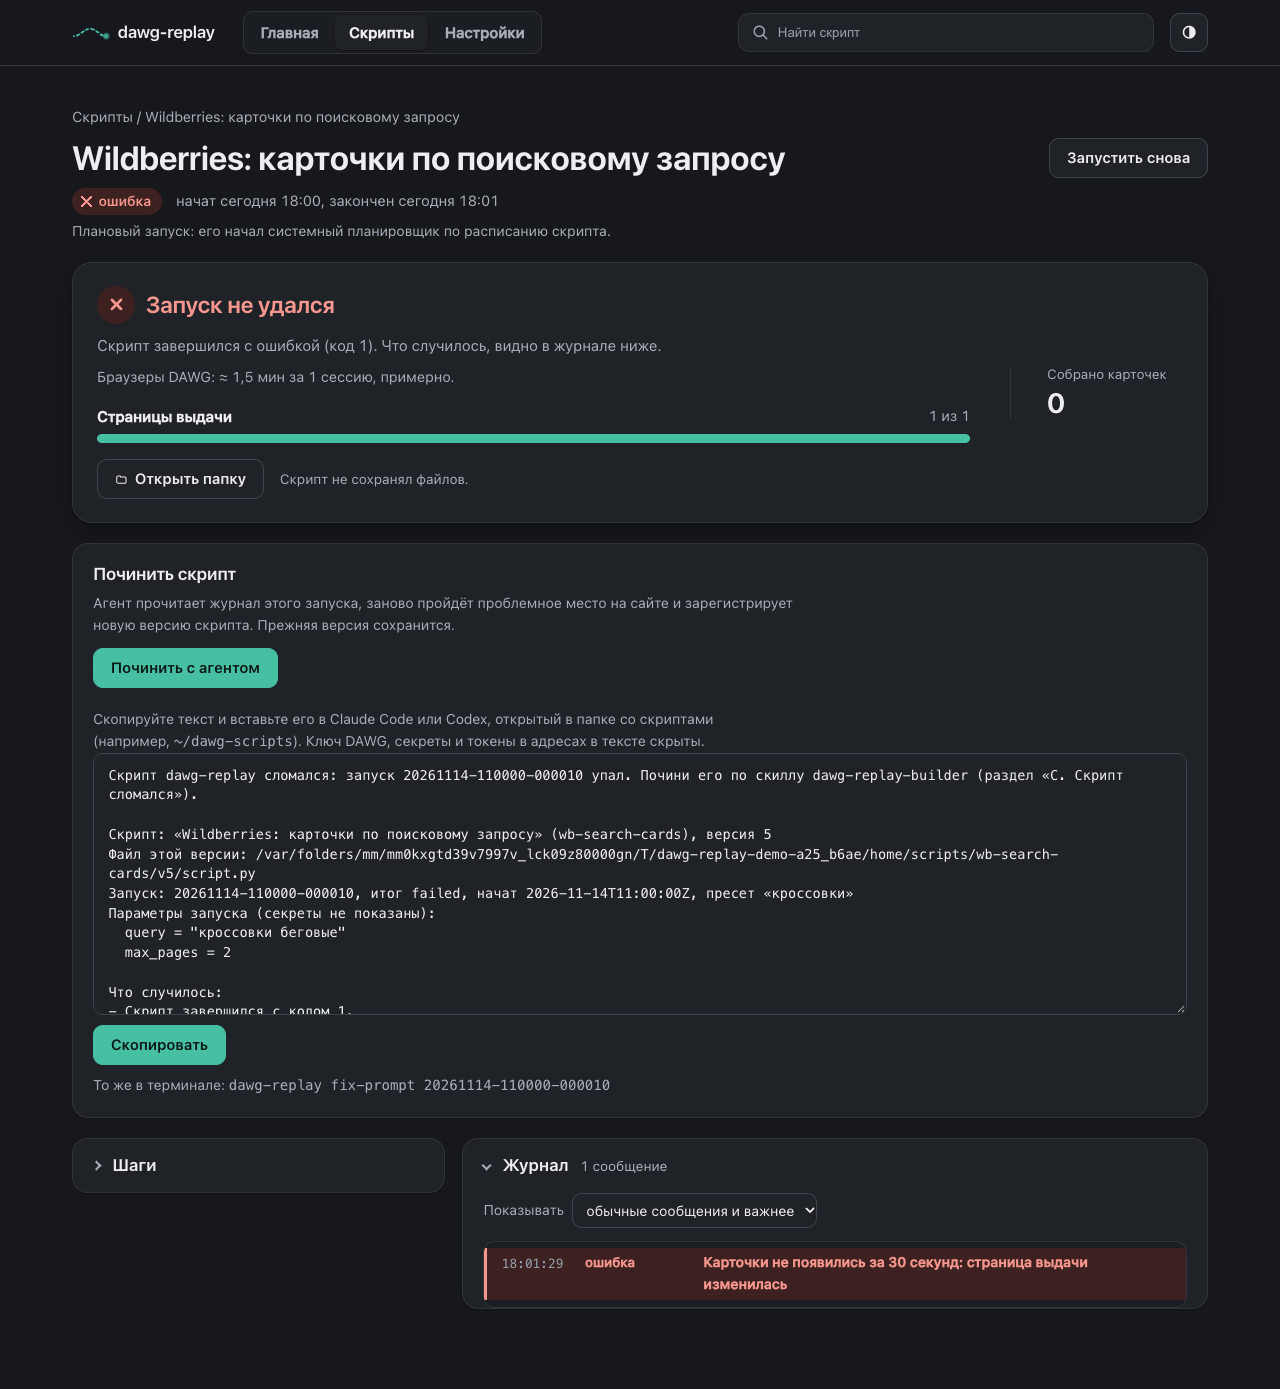
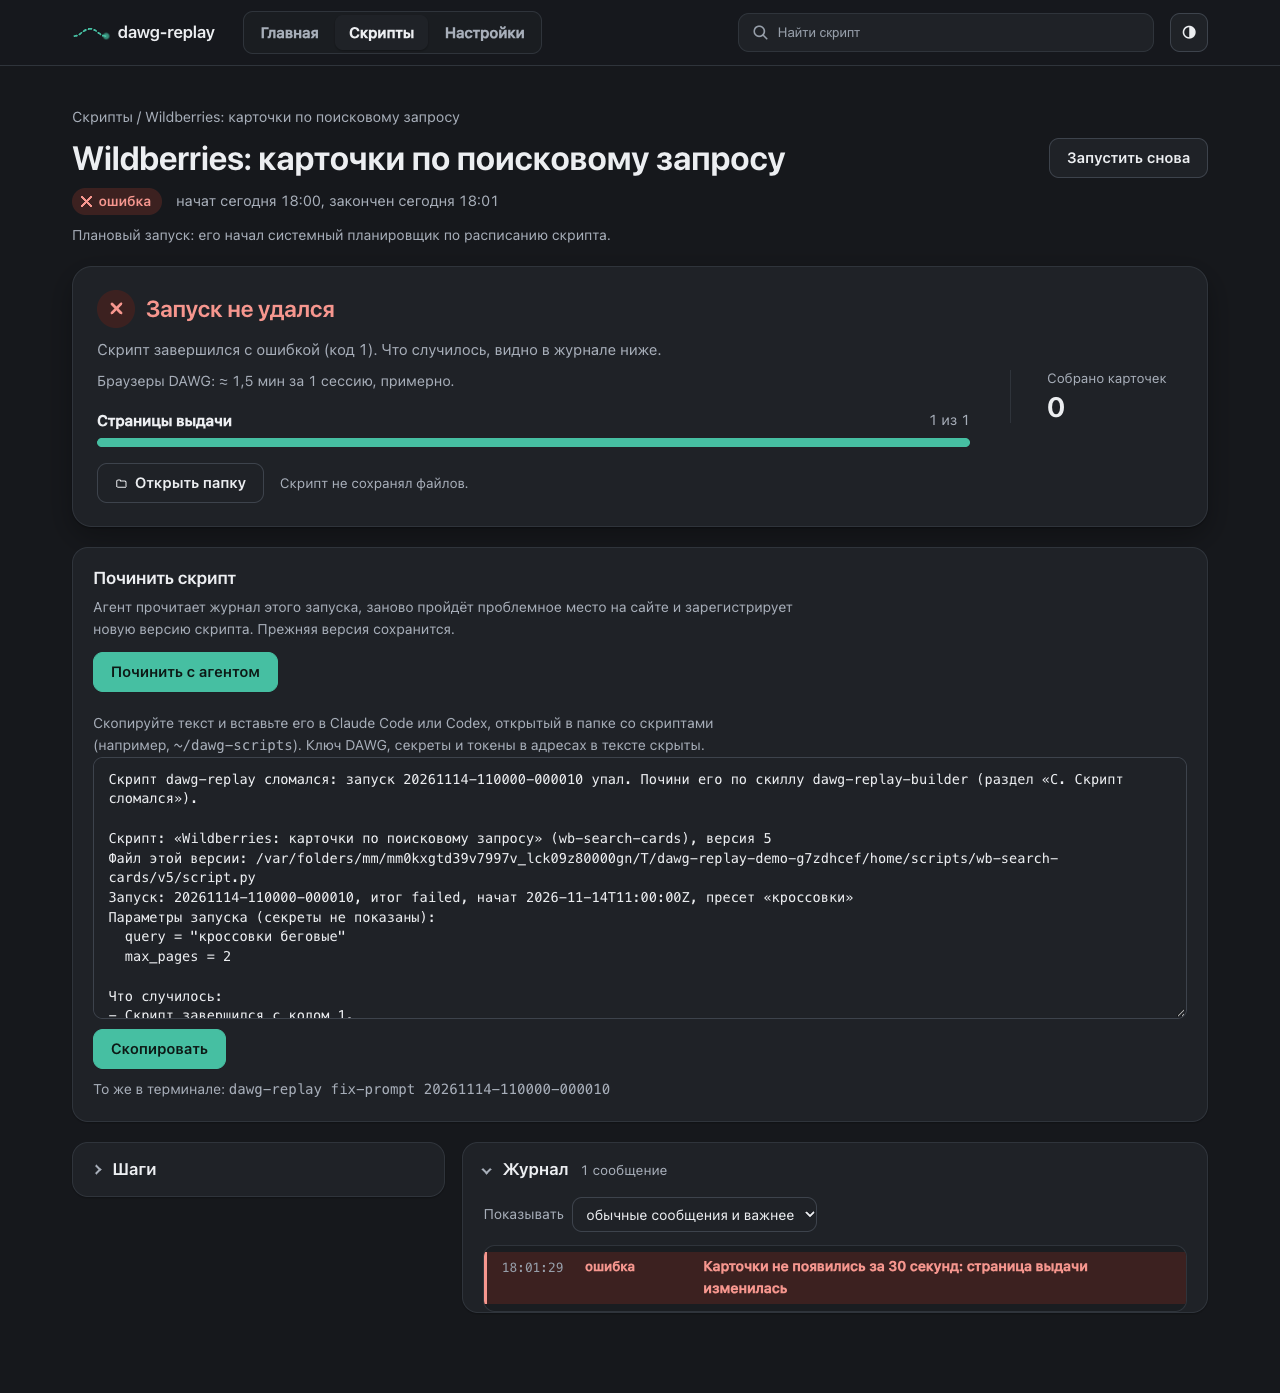
Тихая поломка в шапке запуска, короткий бейдж в списках, демо очереди, новые скриншоты
- шапка экрана запуска и списки: «сайт поменялся?» с подсказкой вместо зелёного «готово»
- «С прошлого визита»: причина с заглавной буквы; отступ над «Ждут свободного слота»
- демо: идёт футбол, ждёт плановый WB, ночной плановый WB пропущен
- docs/screens/2026-11-15: скриншоты на свежей dev (с dr-56) и README

diff --git a/packages/dawg-replay/src/dawg_replay/web/templates/run/_head.html b/packages/dawg-replay/src/dawg_replay/web/templates/run/_head.html
@@ -1,4 +1,4 @@
-{% set st = run.label | status %}
+{% set st = run | run_status %}{# тихая поломка: не зелёное «готово» (dawg_replay.repair) #}
 <div id="run-head" class="run-head">
   <p class="crumbs"><a href="/scripts">Скрипты</a>{% if run.script and not run.draft %} / <a href="/scripts/{{ run.script }}">{{ run.title or run.script }}</a>{% endif %}</p>
   {# Порядок для телефона: название и статус, потом действия. На широком экране действия справа. #}
@@ -6,7 +6,7 @@
     <div class="run-title-main">
     <h1>{{ run.title or run.script }}</h1>
     <p class="run-meta">
-      <span class="status status-{{ st.kind }}">{{ st.text }}</span>
+      <span class="status status-{{ st.kind }}"{% if st.title %} title="{{ st.title }}"{% endif %}>{{ st.text }}</span>
       <span>начат {{ run.created_at | when }}{% if run.finished_at %}, закончен {{ run.finished_at | when }}{% endif %}</span>
       {% if s.browsers.open or running %}
         <span class="browsers{% if s.browsers.open %} browsers-on{% endif %}">

diff --git a/packages/dawg-replay/src/dawg_replay/web/templates/home/_since.html b/packages/dawg-replay/src/dawg_replay/web/templates/home/_since.html
@@ -9,7 +9,7 @@
       {{ cover(a.cover, "s") }}
       <div class="dash-text">
         <span class="dash-att-top">{% if a.suspicion %}<span class="status status-partial">похоже, сайт поменялся</span>{% else %}<span class="status status-{{ st.kind }}">{{ st.text }}</span>{% endif %}<a class="dash-title" href="/runs/{{ a.run.id }}">{{ a.title }}</a></span>
-        <span class="hint-inline">{{ a.run.created_at | when }}{% if a.suspicion %}. {{ a.suspicion.text }}{% elif a.run.summary %}. {{ a.run.summary | markdown | striptags }}{% elif a.run.error %}. {{ a.run.error }}{% elif a.why %}. {{ a.why }}{% endif %}</span>
+        <span class="hint-inline">{{ a.run.created_at | when }}{% if a.suspicion %}. {{ a.suspicion.text }}{% elif a.run.summary %}. {{ a.run.summary | markdown | striptags }}{% elif a.run.error %}. {{ a.run.error | capitalize_first }}{% elif a.why %}. {{ a.why }}{% endif %}</span>
       </div>
       {% if a.repair %}<a class="button button-secondary small" href="/runs/{{ a.run.id }}#repair">Починить с агентом</a>{% endif %}
     </li>

diff --git a/packages/dawg-replay/src/dawg_replay/web/static/app.css b/packages/dawg-replay/src/dawg_replay/web/static/app.css
@@ -948,6 +948,7 @@ a.button.small { min-height: 2rem; padding: 0.25rem 0.75rem; font-size: 0.85rem;
 /* Ждущие свободного слота на главной */
 .dash-sub { margin: 1rem 0 0.5rem; font-size: 0.9rem; font-weight: 600; color: var(--ink-soft); }
 .dash-sub:first-of-type { margin-top: 0.2rem; }
+.dash-list + .dash-sub { margin-top: 1.1rem; } /* под списком идущих: отступ, а не прилипание к полоске */
 .schedule-add > summary {
   display: inline-flex; align-items: center; min-height: 2.4rem; padding: 0.3rem 0.9rem;
   border: 1px solid var(--line-strong); border-radius: var(--r-control); background: var(--surface);

diff --git a/testing/demo_home.py b/testing/demo_home.py
@@ -349,24 +349,27 @@ def add_live(home: Path) -> subprocess.Popen:
     now = datetime.now(timezone.utc)
     with App(home) as app:
         app.set_config("max_parallel_runs", "1")
-        v = app.registry.version("ozon-search-cards")
+        # Идёт футбол: так у Ozon в библиотеке последним остаётся запуск с тихой поломкой.
+        v = app.registry.version("sports-results")
         rid = run_id(now - timedelta(minutes=3), 0xfff001)
-        app.runs.reserve(run_id=rid, script_name="ozon-search-cards", script_version=v.version, script_path=str(v.path),
-                         draft=False, preset="смартфоны", params={"query": "смартфон", "max_pages": 2, "sort": "price"},
+        app.runs.reserve(run_id=rid, script_name="sports-results", script_version=v.version, script_path=str(v.path),
+                         draft=False, preset="рпл", params={"league": "РПЛ", "round": 16},
                          timeout_seconds=3600, limit=1)
         d = app.paths.run_dir(rid)
         d.mkdir(parents=True, exist_ok=True)
         t0 = now - timedelta(minutes=3)
-        rows = cards(rng, 40, 1)
+        rows = [{"home": h, "away": a, "score": sc} for h, a, sc in (
+            ("Зенит", "Спартак", "2:1"), ("ЦСКА", "Локомотив", "0:0"), ("Краснодар", "Динамо", "3:2"),
+            ("Ростов", "Рубин", "1:1"))]
         ev = [
             {"t": "stage", "name": "Открываю браузер", "ts": iso(t0 + timedelta(seconds=5))},
             {"t": "session", "action": "open", "session_id": "demo-live-0", "browser_id": "br-0",
              "ts": iso(t0 + timedelta(seconds=20))},
-            {"t": "stage", "name": "Обхожу выдачу", "ts": iso(t0 + timedelta(seconds=40))},
+            {"t": "stage", "name": "Собираю матчи тура", "ts": iso(t0 + timedelta(seconds=40))},
             {"t": "rows", "table": "cards", "columns": list(rows[0]), "rows": rows, "ts": iso(now - timedelta(seconds=30))},
-            {"t": "progress", "id": "pages", "label": "Страницы выдачи", "done": 1, "total": 2,
+            {"t": "progress", "id": "matches", "label": "Матчи", "done": 4, "total": 8,
              "ts": iso(now - timedelta(seconds=30))},
-            {"t": "metric", "key": "cards", "label": "Собрано карточек", "value": 40, "ts": iso(now - timedelta(seconds=30))},
+            {"t": "metric", "key": "matches", "label": "Собрано матчей", "value": 4, "ts": iso(now - timedelta(seconds=30))},
         ]
         (d / "events.jsonl").write_text("".join(json.dumps(e, ensure_ascii=False) + "\n" for e in ev), encoding="utf-8")
         app.runs.set_supervisor(rid, keeper.pid, started)

diff --git a/packages/dawg-replay/tests/test_repair.py b/packages/dawg-replay/tests/test_repair.py
@@ -351,9 +351,9 @@ def test_lists_show_silent_breakage(client, make_run, home, kr):
     for _ in range(3):
         make_run(events=_events(rows=100), preset="p", files=["c.csv"])
     bad = make_run(events=_events(rows=3), preset="p", files=["c.csv"])
-    badge = "похоже, сайт поменялся</span>"
+    badge = "сайт поменялся?</span>"
     lib = client.get("/scripts").text
-    assert badge in lib and "обычно около 100" in lib  # в подсказке title
+    assert badge in lib and "Похоже, сайт поменялся. Собрано 3 строки" in lib and "обычно около 100" in lib  # в подсказке title
     script = client.get("/scripts/ozon-cards").text
     runs = script.split('id="script-runs"', 1)[1]
     assert runs.count(badge) == 1 and f"/runs/{bad}" in runs
@@ -383,5 +383,5 @@ def test_skipped_run_is_not_repaired_but_shown_since_last_visit(client, make_run
         a.db.execute("UPDATE runs SET error = 'не дождался свободного слота за 60 мин' WHERE id = ?", (rid,))
         assert repair.needs_repair(a, a.runs.get(rid)) is None
     since = client.get("/").text.split("С прошлого визита", 1)[1].split("Идут сейчас", 1)[0]
-    assert f"/runs/{rid}" in since and "не дождался свободного слота" in since and "#repair" not in since
+    assert f"/runs/{rid}" in since and "Не дождался свободного слота" in since and "#repair" not in since
     assert "Починить с агентом" not in client.get(f"/runs/{rid}").text

diff --git a/packages/dawg-replay/src/dawg_replay/web/views.py b/packages/dawg-replay/src/dawg_replay/web/views.py
@@ -58,7 +58,8 @@ def run_status_view(run: dict[str, Any]) -> dict[str, str]:
     """Статус запуска для списков: тихая поломка (repair.annotate) вместо зелёного «готово»."""
     sus = run.get("suspicion")
     if sus:
-        return {"text": "похоже, сайт поменялся", "kind": "partial", "title": sus.get("text", "")}
+        # Коротко: в списках бейдж стоит в колонке статусов, длинный текст ломает выравнивание.
+        return {"text": "сайт поменялся?", "kind": "partial", "title": "Похоже, сайт поменялся. " + sus.get("text", "")}
     return {**status_view(run.get("label")), "title": ""}
 
 

diff --git a/docs/screens/2026-11-15/README.md b/docs/screens/2026-11-15/README.md
@@ -1,6 +1,6 @@
 # Экраны dev на 2026-11-15
 
-Что появилось за ночь: регулярные запуски (dr-47), «Починить с агентом» и тихая поломка (dr-49), примерные минуты браузеров (dr-50). Скриншоты сняты на демо-данных в headless Chrome.
+Что появилось за ночь: регулярные запуски (dr-47), «Починить с агентом» и тихая поломка (dr-49), примерные минуты браузеров (dr-50), очередь плановых запусков (dr-52), шапка запуска и порядок блоков на странице скрипта (dr-56), тихая поломка во всех списках (dr-55). Скриншоты сняты на демо-данных в headless Chrome.
 
 ## Запустить демо самому
 
@@ -12,7 +12,7 @@ uv run --all-packages python testing/demo_home.py
 
 Команда создаёт временный каталог данных, заполняет его и печатает ссылку на интерфейс. Остановить: Ctrl+C. Ключ DAWG и сеть не нужны. Настоящий crontab и хранилище паролей не трогаются: у демо свой фейковый crontab и пустой keyring.
 
-В демо три скрипта (Ozon, Wildberries, футбол), четыре пресета, три расписания и неделя истории запусков. Прошлый визит в интерфейс записан вчерашним вечером, поэтому на главной виден блок «С прошлого визита».
+В демо три скрипта (Ozon, Wildberries, футбол), четыре пресета, три расписания и неделя истории запусков. Лимит одновременных запусков 1: футбол идёт, плановый Wildberries ждёт свободного слота, ночной плановый Wildberries пропущен (не дождался слота). Идущий и ждущий запуски держит фоновый процесс демо, после Ctrl+C он завершается. Прошлый визит в интерфейс записан вчерашним вечером, поэтому на главной виден блок «С прошлого визита».
 
 Переснять скриншоты (нужен установленный Google Chrome):
 
@@ -26,12 +26,12 @@ uv run --all-packages python testing/demo_screens.py docs/screens/2026-11-15
 
 | Файл | Экран | На что смотреть |
 |---|---|---|
-| `01-home-*` | Главная | «С прошлого визита»: ночное падение WB и тихая поломка Ozon с кнопками «Починить с агентом». «По расписанию»: ближайшие плановые запуски. «Минуты и браузеры»: примерный расход за неделю. В «Последних запусках» плановые запуски помечены «по расписанию» |
-| `02-library-*` | Скрипты | Карточки трёх скриптов с последним запуском и пресетами |
-| `03-script-schedules-minutes-*` | Страница скрипта Ozon | История запусков, минуты за 7 дней в шапке блока «Запуски», блок «Регулярный запуск» с расписанием и формой |
+| `01-home-*` | Главная | «С прошлого визита»: ночное падение WB и тихая поломка Ozon с кнопками «Починить с агентом», пропущенный из-за очереди запуск без кнопки. «Идут сейчас» и «Ждут свободного слота». «По расписанию»: ближайшие плановые запуски. «Минуты и браузеры»: примерный расход за неделю. В «Последних запусках» тихая поломка помечена «сайт поменялся?», тег «по расписанию» всегда в начале второй строки |
+| `02-library-*` | Скрипты | Карточки трёх скриптов с последним запуском: у Ozon «сайт поменялся?», футбол идёт, WB ждёт слот |
+| `03-script-schedules-minutes-*` | Страница скрипта Ozon | «Регулярный запуск» над историей, история с «сайт поменялся?» у последнего планового запуска, минуты за 7 дней в шапке блока «Запуски» |
 | `04-run-failed-repair-*` | Упавший плановый запуск WB | Панель «Починить с агентом» раскрыта: текст для агента, кнопка «Скопировать». Токен из адреса в stderr скрыт |
-| `05-run-silent-breakage-*` | Тихая поломка Ozon | Запуск завершился без ошибки, но собрал 6 строк вместо обычных ~120: предупреждение «Похоже, сайт поменялся» и кнопка починки |
-| `06-history-*` | История WB | Плановые запуски каждые 6 часов, последний упал |
+| `05-run-silent-breakage-*` | Тихая поломка Ozon | Запуск завершился без ошибки, но собрал 6 строк вместо обычных ~120: жёлтый итог «Готово, но похоже, сайт поменялся», в шапке «сайт поменялся?», ниже объяснение и кнопка починки |
+| `06-history-*` | История WB | Плановые запуски каждые 6 часов: ждёт слот, упал, пропущен |
 | `07-settings-*` | Настройки | Ключ не задан (демо без ключа) |
 | `08-home-phone-light`, `10-home-phone-dark` | Главная на телефоне (390 px) | |
 | `09-run-failed-phone-light`, `11-run-silent-phone-dark` | Экраны запуска на телефоне | |
